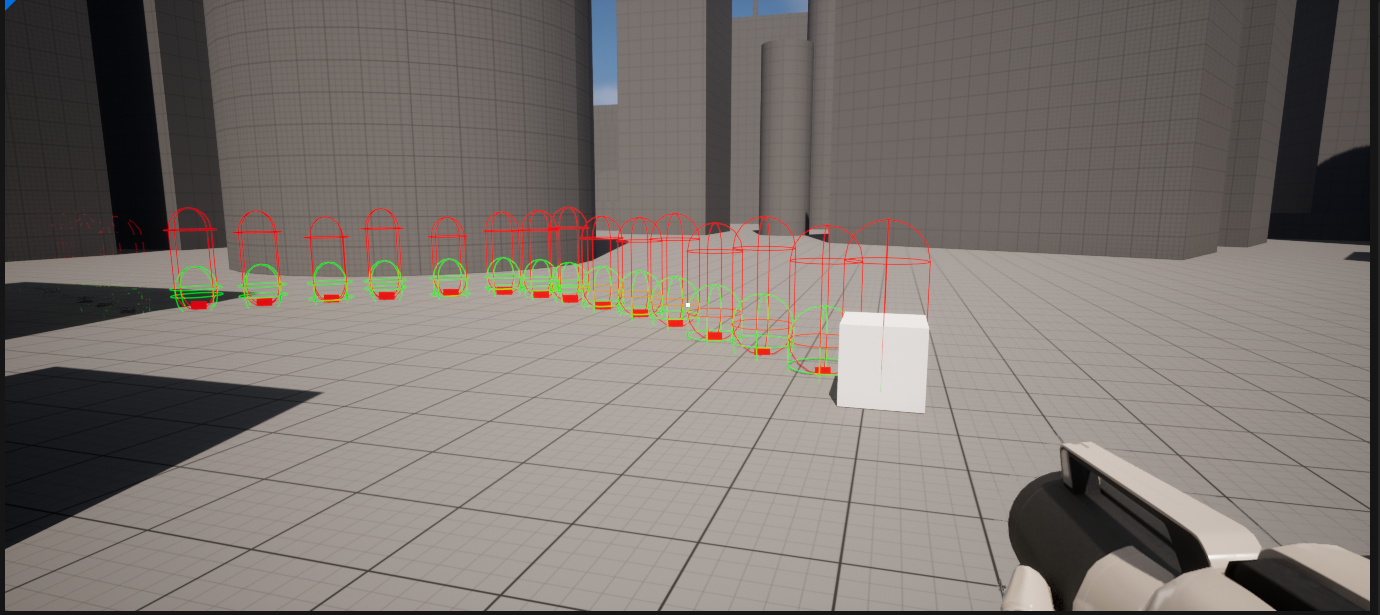
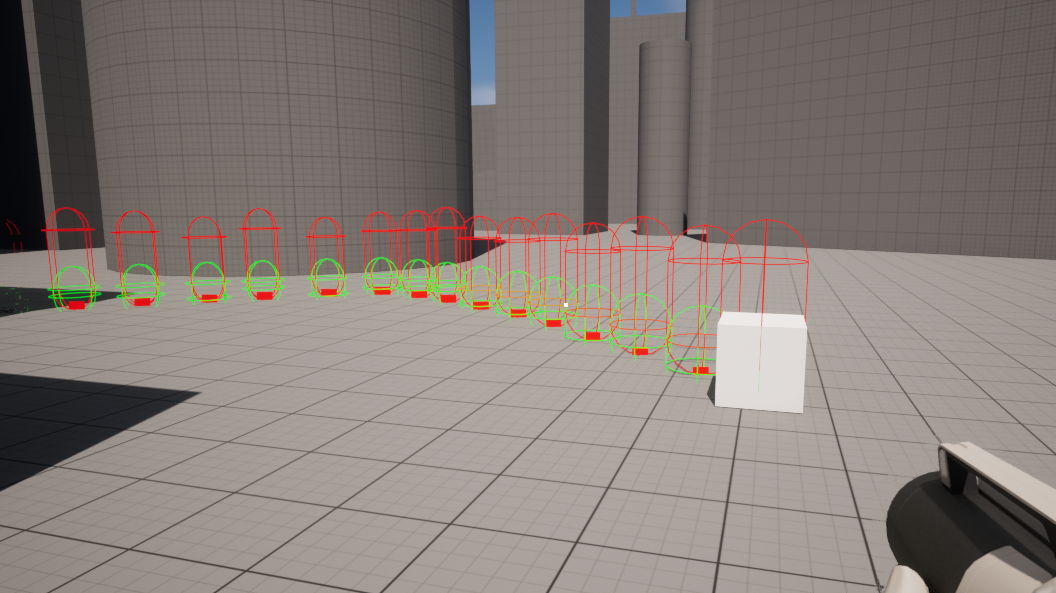
devblog 5

diff --git a/devblogs/week5.html b/devblogs/week5.html
@@ -47,7 +47,7 @@
                     <!-- Preview image figure-->
                     <figure class="mb-4">
                         <img class="img-fluid rounded" src="../assets/beginPullCover.png" alt="..." />
-                        <div class="text-muted fst-italic mb-2 mt-2">A rope extending - the red debug sphere represents the added point.</div>
+                        <div class="text-muted fst-italic mb-2 mt-2">Debug visualization of this week's jerky movement from pulling an object in with the rope.</div>
                     </figure>
                     <!-- Post content-->
                     <section class="mb-5">
@@ -62,21 +62,139 @@
                         </p>
                         <p class="fs-5 mb-4">Last week, I had gotten quite a bit ahead of my schedule and so wanted to take this week to pause and clean up some of what I had. In particular, the state in which I left the gun's animation / rotation when the player used it to hang from a rope bothered me. When rope hanging was first implemented, I had forced the gun to always rotate to look at the anchor. Without this forced rotation, the player could artificially create swinging motions by simply looking quickly away from the anchor point, since the simulations and restraints were done using the gun tip position but that gun tip was parented under the player's camera. Quickly looking away meant quickly moving that child gun object, artificially adding movement into the simulation.</p>
                         <p class="fs-5 mb-4">This forced 'look at' solution did resolve that issue, removing any artificial motion during quick look movements, but it brought another problem into the simulation: the 'look at' considered all axis of rotation, and so when the player swung back and forth, the gun would "roll" with the motion.</p>
-                        <p class="fs-5 mb-4"></p>
-                        <p class="fs-5 mb-4"></p>
-                        <p class="fs-5 mb-4"></p>
-                        <p class="fs-5 mb-4"></p>
-                        <p class="fs-5 mb-4"></p>
-                        <p class="fs-5 mb-4"></p>
-                        <p class="fs-5 mb-4"></p>
-                        <p class="fs-5 mb-4"></p>
-                        <p class="fs-5 mb-4"></p>
-                        <p class="fs-5 mb-4"></p>
-                        <p class="fs-5 mb-4"></p>
-                        <p class="fs-5 mb-4"></p>
-                        <p class="fs-5 mb-4"></p>
-                        <p class="fs-5 mb-4"></p>
-                        <p class="fs-5 mb-4"></p>
+                        <figure class="mb-4">
+                            <video class="img-fluid rounded" controls>
+                                <source src="https://media.githubusercontent.com/media/oliviajacquesbaker/oliviajacquesbaker.github.io/9e58f70e9db57fc395bb32420977ff16d2c288f5/assets/jankRotateOriginal.mp4" type="video/mp4">
+                                Your browser does not support the video tag.
+                            </video>
+                            <div class="text-muted fst-italic mb-2 mt-2">The gun "rolling" with the swinging motion of the player in order to maintain the correct look at rotation.</div>
+                        </figure>
+                        <p class="fs-5 mb-4">This original solution had admittedly been made pretty quickly, so going in to this week I had thought 'well, of course it isn't perfect, but I'm sure I can make something much better without too much trouble.' Unfortunately, what followed next was a series of failures that ate up a huge portion of the time I had available this week.</p>
+                        <p class="fs-5 mb-4">Part of the issue, I realized later in my work this week, was that I had failed to correctly diagnose the problem to begin with. I had at first been quite convinced that the gun was simply rotating incorrectly in some way, and all I needed to do was correct that rotation. What exactly was "incorrect" was something I had trouble pinning down, though - at first I thought it was a result of the gun's pivot point being the center of the gun rather than the tip that I was actually trying to rotate and calculate around. When that approach failed, I thought it was an issue of the "look at" calculation receiving a global up vector rather than one that would be more normal to the wall the player was hanging against. When that too failed, I thought perhaps it was simply that - in the additional rotations that happened to ensure the gun remained visible in the player's hands - rotation was getting added where it shouldn't be and should be zeroed out or at least clamped to prevent it from going too crazy. Throughout all of these iterations of thinking I had identified the "real" problem, I tried everything from making custom look at and aim solver functions to editing the model's pivot and orientation to simply hardcoding parts of the rotation.</p>
+                        <p class="fs-5 mb-4">Of course, none of these were the solution. The rotation was exactly as it should be in order to match the simulation of the rope as best as possible, hence why I couldn't figure out what was "wrong" with it. Some of my attempts certainly fixed the gun's rotation to be facing a particular way, but doing so always compromised the simulation itself and resulted in the player's movement - as an offset of the gun tip's movement and rotation - misbehaving.</p>
+                        <p class="fs-5 mb-4">What 'misbehaving' meant depended on what exactly the rotation alteration was - generally, though, it meant that I was artifically adding way, way too much movement into the system by "correcting" the rotation of the gun tip outside of the simulation's bounds. Since Verlet Integration means we use position to directly calculate velocity, altering the rotation of the gun so the gun tip was no longer in the perfectly precise position I had started this journey with meant I was directly affecting the velocity of the simulation, starting with the last point in the rope. Often, this would cause the player to go flying in some way or another - for your amusement, here's a selection of such results from the various attempts I made:</p>
+                        <div class="row">
+                            <div class="col-lg-6">
+                                <figure class="mb-4">
+                                    <video class="img-fluid rounded" controls>
+                                        <source src="https://media.githubusercontent.com/media/oliviajacquesbaker/oliviajacquesbaker.github.io/9e58f70e9db57fc395bb32420977ff16d2c288f5/assets/jankRotate.mp4" type="video/mp4">
+                                        Your browser does not support the video tag.
+                                    </video>
+                                    <div class="text-muted fst-italic mb-2 mt-2">Results of moving gun pivot to gun tip and adjusting simulation accordingly.</div>
+                                </figure>
+                            </div>
+                            <div class="col-lg-6">
+                                <figure class="mb-4">
+                                    <video class="img-fluid rounded" controls>
+                                        <source src="https://media.githubusercontent.com/media/oliviajacquesbaker/oliviajacquesbaker.github.io/9e58f70e9db57fc395bb32420977ff16d2c288f5/assets/jankRotate1.mp4" type="video/mp4">
+                                        Your browser does not support the video tag.
+                                    </video>
+                                    <div class="text-muted fst-italic mb-2 mt-2">Results of forcing a different up vector for look at calculations.</div>
+                                </figure>
+                            </div>
+                        </div>
+                        <div class="row">
+                            <div class="col-lg-6">
+                                <figure class="mb-4">
+                                    <video class="img-fluid rounded" controls>
+                                        <source src="https://media.githubusercontent.com/media/oliviajacquesbaker/oliviajacquesbaker.github.io/9e58f70e9db57fc395bb32420977ff16d2c288f5/assets/jankRotate2.mp4" type="video/mp4">
+                                        Your browser does not support the video tag.
+                                    </video>
+                                    <div class="text-muted fst-italic mb-2 mt-2">Results of attempting to zero out or clamp anything but the pitch.</div>
+                                </figure>
+                            </div>
+                            <div class="col-lg-6">
+                                <figure class="mb-4">
+                                    <video class="img-fluid rounded" controls>
+                                        <source src="https://media.githubusercontent.com/media/oliviajacquesbaker/oliviajacquesbaker.github.io/9e58f70e9db57fc395bb32420977ff16d2c288f5/assets/jankRotate3.mp4" type="video/mp4">
+                                        Your browser does not support the video tag.
+                                    </video>
+                                    <div class="text-muted fst-italic mb-2 mt-2">Results of using the player themself for simulation and restraint calculations.</div>
+                                </figure>
+                            </div>
+                        </div>
+                        <p class="fs-5 mb-4">The final video there was a moment of particular frustration for me, because at that point I had finally realized that my assessment of the problem was wrong and had thought myself on the right path at last. I had decided to abandon the approach of altering the gun itself - let the gun rotate to look at the anchor exactly how it wants, and instead, I would complete all simulation and constraints using the player themself. Where before I considered the gun tip to be an additional point on the rope with a resting distance of zero from the end point of the rope, I now considered the player's center to be that point with a resting distance based on the difference between the player's location and that of the rope end. Then the player's position could be calculated directly as opposed to being an offset of the gun, and looking around wouldn't have any effects since this time the camera would be a child of the calculation center. The gun was then made to be part of a separate calculation, only used for appearances.</p>
+                        <p class="fs-5 mb-4">Of course, as you can see, it didn't work. The player's center just isn't naturally part of the rope - I was trying to use the resting distance multiplied by the normalized vector direction pointing from rope end to player center to make up for the way the player center is naturally out of line with the rope, but I couldn't get it to work with enough accuracy that it would keep the rope stable.</p>
+                        <p class="fs-5 mb-4">In the end, I had to accept that there really were only two options that kept the rope simulation accurate enough to feel good to the player: either I allow the gun to "roll" to maintain perfect rotation to prevent artificial "look" movement, or I allow artificial "look" movement to get rid of the rolling motion. Or at least, those were the only two options I felt were realistic for me - perhaps there is another solution that I was unable to think of, but by this point I had already sunk so many hours into trying various solutions that I wanted to pick something and move on. This was never meant to be a focus of this project, and I feel there are better ways to spend my time. Even if I'm currently ahead, I don't want to lose that lead; I'd rather spend time on a stretch goal that improves the simulation itself than staying here fiddling with the appearance of the gun.</p>
+                        <p class="fs-5 mb-4">Playing with the two options, I decided that from the player's perspective, the artificial look movement felt better overall. Combined with the swinging controls from last week, it actually tends to help the player motion, whereas the "rolling" motion was often distracing and unhelpful, even if it might have been a bit more accurate.</p>
+                        <figure class="mb-4">
+                            <video class="img-fluid rounded" controls>
+                                <source src="https://media.githubusercontent.com/media/oliviajacquesbaker/oliviajacquesbaker.github.io/9e58f70e9db57fc395bb32420977ff16d2c288f5/assets/resignedRotation.mp4" type="video/mp4">
+                                Your browser does not support the video tag.
+                            </video>
+                            <div class="text-muted fst-italic mb-2 mt-2">The current state of gun rotation during rope hanging - the rolling motion has been removed, but the player can still force artificial movement.</div>
+                        </figure>
+                        <p class="fs-5 mb-4">I settled on the above results. This did end up being a small tweak from what I had previous to the rolling solution rather than a complete revert - I still wanted the gun to point upwards rather than being locked within the hand's animations, as keeping it pointed upwards both added some realism to the simulation and dampened the amount of artificial movement the player could get by looking around. In order to find this rotation, I calculated the "look at" rotation of an imaginary point that existed at the same height as the actual anchor point but positioned directly ahead of the player, such that there would never be any roll.</p>
+                        <figure class="mb-4">
+                            <img class="img-fluid rounded" src="../assets/rotateAdjustments.png" alt="..." />
+                            <div class="text-muted fst-italic mb-2 mt-2">Code adjustment for the gun's forced rotation during player hanging.</div>
+                        </figure>
+                        <p class="fs-5 mb-4">It was certainly frustrating to put in so many hours only to end up just using this small piece of code as a "good enough," but it was also certainly time to move on to more important parts of this project.</p>
+                        <p class="fs-5 mb-4">Next up was to begin work on adding functionality for allowing some objects to be pulled towards the player with the grapple hook, rather than pulling the player themself. The setup for this was trivial - just adding another tag for the grapple gun to look for when latching on to something and adding a quick way for the grapple hook to be able to tell the rope it generates whether the anchor point is movable or not, since until this point the anchor point had been excluded from simulation. Then came the actual pulling behavior.</p>
+                        <p class="fs-5 mb-4">I began by treating the pulled object the same way I handled a hanging player - pretending as if it were part of the rope, with a resting distance of zero from the rope point it was attached to. This originally resulted in a jerky, inconsistent pulling motion, which I assumed to be a problem similar to the way the player had been getting stuck on collisions when getting pulled up the rope against a wall. However, when I visualized where collisions were happening, they were only happening occasionally along the box's path, and trying to project out of those collisions didn't help the same way it did for the player being pulled up against a wall.</p>
+                        <div class="row">
+                            <div class="col-lg-6">
+                                <figure class="mb-4">
+                                    <video class="img-fluid rounded" controls>
+                                        <source src="https://media.githubusercontent.com/media/oliviajacquesbaker/oliviajacquesbaker.github.io/9e58f70e9db57fc395bb32420977ff16d2c288f5/assets/initialPullObject.mp4" type="video/mp4">
+                                        Your browser does not support the video tag.
+                                    </video>
+                                    <div class="text-muted fst-italic mb-2 mt-2">Jerky movement of a box being pulled towards the player.</div>
+                                </figure>
+                            </div>
+                            <div class="col-lg-6">
+                                <figure class="mb-4">
+                                    <img class="img-fluid rounded" src="../assets/occasionalCollision.png" alt="..." />
+                                    <div class="text-muted fst-italic mb-2 mt-2">Visualization of occasional collisions where the box is trying to move.</div>
+                                </figure>
+                            </div>
+                        </div>
+                        <p class="fs-5 mb-4">The problem was that the rope wasn't registering that the distance between start and end points was great enough to represent a taut rope, or that when this did register it moved the box by too great a distance and immedietely lost the tautness, or both. I'm still actively working through this problem now. The current iteration of my solution reconstrains the box to the rope end point on every frame, but only resolves collisions on frames where the rope registers as taut, but clearly this is not the solution either...</p>
+                        <figure class="mb-4">
+                            <video class="img-fluid rounded" controls>
+                                <source src="https://media.githubusercontent.com/media/oliviajacquesbaker/oliviajacquesbaker.github.io/9e58f70e9db57fc395bb32420977ff16d2c288f5/assets/floatingPullObject.mp4" type="video/mp4">
+                                Your browser does not support the video tag.
+                            </video>
+                            <div class="text-muted fst-italic mb-2 mt-2">The current state of gun rotation during rope hanging - the rolling motion has been removed, but the player can still force artificial movement.</div>
+                        </figure>
+                        <p class="fs-5 mb-4">I'll keep chomping away at this problem next week. My next step will be to just rewrite what I have - currently, I'm using edited copy-pasted code from handling the player, and I suspect that there might be a discrepency there that I'm not accounting for. Hopefully rewriting it will force me to discover any such issues.</p>
+                        <p class="fs-5 mb-4">Looking beyond next week, I figure now at the midway point is a good a time as any to make some adjustments to my schedule. When I had originally written my plan for this project, I had expected the issue of being able to dynamically extend and shorten ropes to take me much longer than it did, and I had valued that feature over collision detection of rope points with world geometry. I expected collision detection to be a large issue I wouldn't have time for in the remaining weeks of my schedule, so assigned it to a stretch goal. However, with my current progress, I believe I have the time for it if I remove "visual line smoothing" as a primary goal and replace it with the rope collision.</p>
+                        <p class="fs-5 mb-4">Additionally, I can create visuals that look mostly smooth even without polynomial interpolation and just using straight lines between each point, given that the distance between each point is small enough. The non-smoothness is only really noticed when the rope bunches up on itself during very quick bouncing motions. As such, I currently value attempting to resolve rope collision over pursuing polynomial interpolation for visual smoothness, and would like to swap those two goals out.</p>
+                        <p class="fs-5 mb-4">With my current progress ahead of schedule, and with that swap in priorities, the rest of this project should look like this:</p>
+                        <p class="fs-5">
+                            <b>Week of 6/26:</b> Finalize the “pull object” functionality.
+                            <ul>
+                                <li class="fs-5">Use the existing functionality to allow players to grapple smaller objects, in which the grapple gun itself acts as the anchor and pulls in the object to the player.</li>
+                            </ul>
+                        </p>
+                        <p class="fs-5">
+                            <b>Week of 7/3:</b> Begin work on rope collision solving with world objects.
+                            <ul>
+                                <li class="fs-5">Using projection techniques used previously in the project, begin resolving collisions with the individual rope points and world geometry.</li>
+                            </ul>
+                        </p>
+                        <p class="fs-5">
+                            <b>Week of 7/10:</b> Complete work on rope collision solving with world objects.
+                            <ul>
+                                <li class="fs-5">Using projection techniques used previously in the project, finish resolving collisions with the individual rope points and world geometry.</li>
+                            </ul>
+                        </p>
+                        <p class="fs-5">
+                            <b>Week of 7/17:</b> Bug fixing and/or adding collectibles to the scene.
+                            <ul>
+                                <li class="fs-5">Buffer week for bug fixing if there is anything that is not quite right with any grapple element.</li>
+                                <li class="fs-5">If this week is unneeded, the time will be spent working on creating a “collectibles” system, rewarding players for exploring the city area by letting them collect floating coins or similar by running through them.</li>
+                            </ul>
+                        </p>
+                        <p class="fs-5">
+                            <b>Week of 7/24:</b> Polish, final review, and consideration of tooling for LDs.
+                            <ul>
+                                <li class="fs-5">A “fire” animation is added to the grapple gun, as well as audio cues.</li>
+                                <li class="fs-5">Code is cleaned up, looking for anything that is not optimized or completely safe on top of readability.</li>
+                                <li class="fs-5">A write up is completed that includes thought on how this project could be integrated with an LD’s work in marking what the grapple interacts with; some sort of LD tool should be discussed as a hypothetical future project.</li>
+                            </ul>
+                        </p>
+                        <p class="fs-5 mb-4">And then of course my stretch goals become the visual line smoothing alongside the possibility of a third object type that can be pulled but has the player experience whiplash when doing so.</p>
                         <p class="fs-5 mb-4"></p>
                         <div class="row">
                             <div class="col-lg-11">
